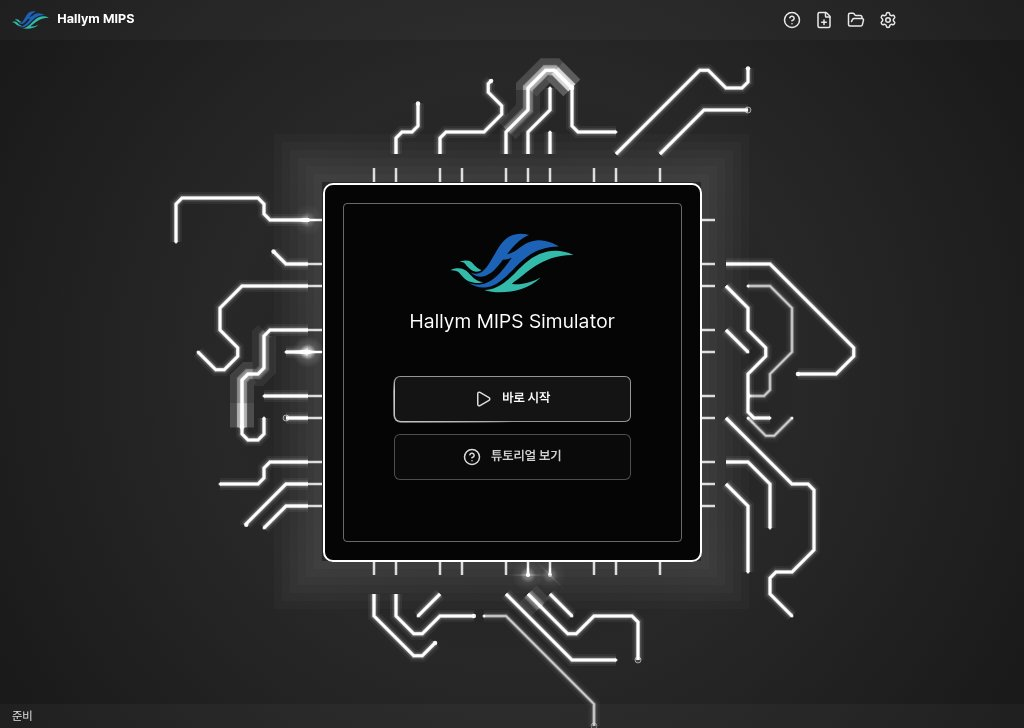
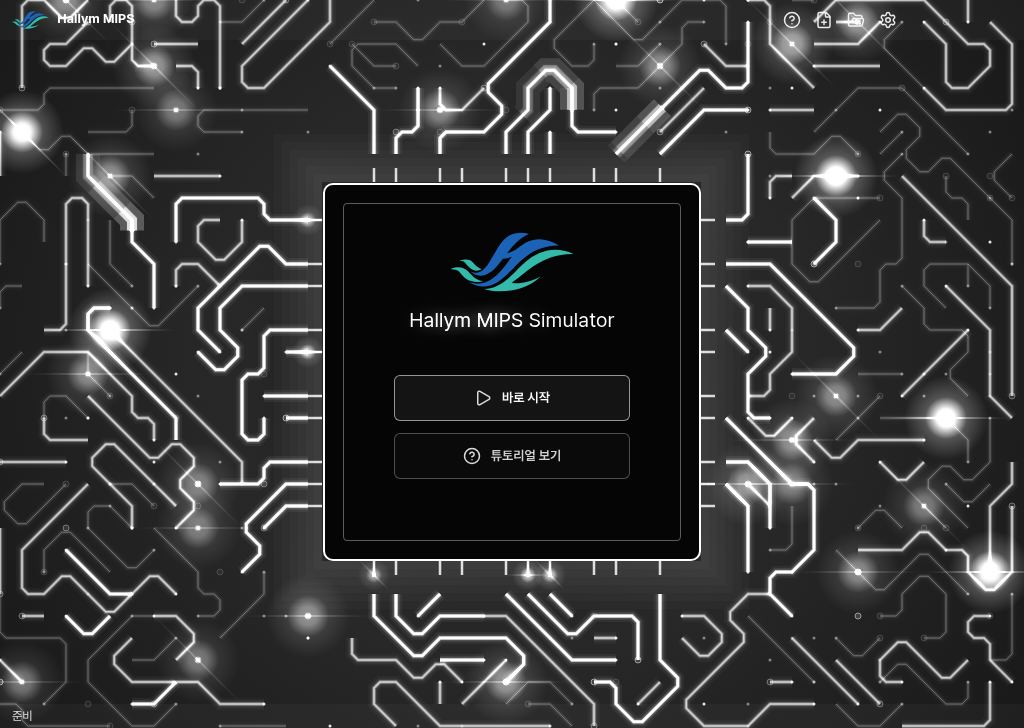
A floor under each light, and the start pictures stop moving
The hierarchy was held to by the ratio of the three lifts alone, which three
lights that never come on satisfy as well as three that do (0/0).  Each now
has a floor under it too, about half of what it measures -- 4.0, 1.2, 0.4 of
mean grey -- and a mutant that stops setting --sp-amp at all is killed by it.

What the lifts look like per pixel, which is what says whether a light can be
seen at all: the name 73, the first way in 212, the second 136, against box
means of 8.56, 2.50 and 0.82.  A button's border is two or three per cent of
its box, so the mean divides its light by about forty; the ring itself is the
brightest thing on the card while it passes.  Nothing to raise.

And the start pictures, which had been rewritten two to seven at a time on
every capture for rounds: the clock was being stepped before the board had
been grown, and again before the window had settled its size (a resize sets
the board off behind a 180 ms debounce), so the picture was of whatever
moment the shot caught.  capture-screens.ts now waits for the geometry, for
the resize, and for the compositor to present the stepped frame.  Two
captures in a row now rewrite nothing.

The first screen at 1920 no longer fits 250 kB at quality 85 -- a field of
thin bright lines on a dark ground is what JPEG is worst at, and the board is
drawn to the corners where the photograph was soft -- so photographs are
taken at 78 and the cap stays where it was.  start-1920.jpg: 219 kB.

diff --git a/electron/tools/capture-screens.ts b/electron/tools/capture-screens.ts
@@ -67,7 +67,12 @@ const TYPO = '        .text\n        .global main            # .globl\nmain:   l
 const MAX_BYTES = 400 * 1024;
 const MAX_SCREEN_BYTES = 700 * 1024; // a whole Windows screen, up to 1920x1080
 const MAX_CROP_BYTES = 150 * 1024;
-const MAX_PHOTO_BYTES = 250 * 1024; // a JPEG over the first screen's video
+/* A JPEG of the first screen.  The board the program draws is harder to
+   compress than the photograph that was there before it -- a field of thin
+   bright lines on a dark ground is what JPEG is worst at -- so the quality
+   is a little lower than it was and the cap is where it was. */
+const MAX_PHOTO_BYTES = 250 * 1024;
+const PHOTO_QUALITY = 78;
 const START_AT = 12.0;              // the board settled: it grows for about 8.5 s (startfield/)
 
 // PNG without its ancillary chunks: the signature, then IHDR, PLTE, tRNS,
@@ -136,17 +141,31 @@ async function shot(r: Running, name: string, clip?: { x: number; y: number; wid
 async function photo(r: Running, name: string): Promise<void> {
   await still(r, name);
   const file = path.join(out, `${name}.jpg`);
-  await r.page.screenshot({ path: freshName(file), type: 'jpeg', quality: 85 });
+  await r.page.screenshot({ path: freshName(file), type: 'jpeg', quality: PHOTO_QUALITY });
   await settle(r, freshName(file), file, MAX_PHOTO_BYTES);
 }
 // The first screen's board (src/renderer/startfield/), put at `t` seconds
 // of its opening -- the same picture every round, with no clip to seek.
 async function boardAt(r: Running, t: number): Promise<void> {
   await r.page.waitForSelector('.startfield canvas');
+  /* The board is grown after the fonts are ready, which is a frame or two
+     after the canvas is in the document.  Stepping the clock before then
+     drew nothing and left the loop running, and the picture was then of
+     whatever moment the shot happened to catch: that is what rewrote two to
+     seven of these on every capture, for rounds. */
+  await r.page.waitForFunction(() => (window as unknown as {
+    __startfield: { geometry(): unknown } }).__startfield.geometry() !== undefined);
+  // The window settling its size sets the board off again (a ResizeObserver
+  // behind a 180 ms debounce), which would start the clock over after the
+  // moment was put where it was wanted.
+  await r.page.waitForTimeout(400);
   await r.page.evaluate((t) => new Promise<void>((done) => {
     (window as unknown as { __startfield: { stepTo(ms: number): void } }).__startfield.stepTo(t * 1000);
     requestAnimationFrame(() => requestAnimationFrame(() => done()));
   }), t);
+  // And a moment more for the compositor to put it on the screen: a shot
+  // taken before that comes back as the frame before it.
+  await r.page.waitForTimeout(20);
 }
 
 // A shot of the set, also as one of the guide's pictures (copied only when it differs).

diff --git a/electron/tests/e2e/start.e2e.ts b/electron/tests/e2e/start.e2e.ts
@@ -384,6 +384,10 @@ test('the board at 1920x1080: bright enough, spread out in time, and no more lin
    order something a measurement can see rather than something only the
    stylesheet knows. */
 const LIFT_STEP = 1.6;      // each one's lift against the next one's
+/* And a floor under each, about half of what it measures: a ratio alone is
+   satisfied by three lights that are all off, which is the one way of
+   breaking this that would look worst. */
+const LIFT_LEAST = { title: 4.0, primary: 1.2, secondary: 0.4 } as const;
 
 test('the card reads in one order: the name, then straight to work, then the tutorial', async () => {
   const r = await launch(MEASURE_AT);
@@ -432,7 +436,9 @@ test('the card reads in one order: the name, then straight to work, then the tut
     }
     // Axis 2 again, as how much each one's light lifts it: with every peak
     // the same the two buttons' lifts come together, which the step catches.
-    expect(lift.secondary, 'the second way in never lights at all').toBeGreaterThan(0.3);
+    for (const k of SPARK_ORDER) {
+      expect(lift[k], `${k}: its light lifts it ${lift[k].toFixed(2)}, which is not a light`).toBeGreaterThan(LIFT_LEAST[k]);
+    }
     expect(lift.title).toBeGreaterThan(LIFT_STEP * lift.primary);
     expect(lift.primary).toBeGreaterThan(LIFT_STEP * lift.secondary);
     // Axis 3: how often.  Settled in spark.ts, and checked there as well.

diff --git a/electron/tools/mutants.ts b/electron/tools/mutants.ts
@@ -622,6 +622,9 @@ const MUTANTS: Mutant[] = [
       + '.action.main { border-color: rgba(255,255,255,.28); background: #0a0a0a; }\n'
       + '.action.main b { color: rgba(255,255,255,.82); }',
     tests: ['tests/e2e/start.e2e.ts'] },
+  { module: 'first screen', file: 'src/renderer/app/panels/welcome.ts', what: 'none of the card\'s lights ever lit',
+    find: "    el.style.setProperty('--sp-amp', amp.toFixed(3));", replace: "    el.style.setProperty('--sp-amp', '0');",
+    tests: ['tests/e2e/start.e2e.ts'] },
   { module: 'first screen', file: 'src/renderer/app/panels/spark.ts', what: 'every light on the card as bright as every other',
     find: '  title: { periodMs: 3500, peak: 1.0 },\n  primary: { periodMs: 5000, peak: 0.85 },\n  secondary: { periodMs: 8000, peak: 0.55 },',
     replace: '  title: { periodMs: 3500, peak: 1.0 },\n  primary: { periodMs: 5000, peak: 1.0 },\n  secondary: { periodMs: 8000, peak: 1.0 },',
